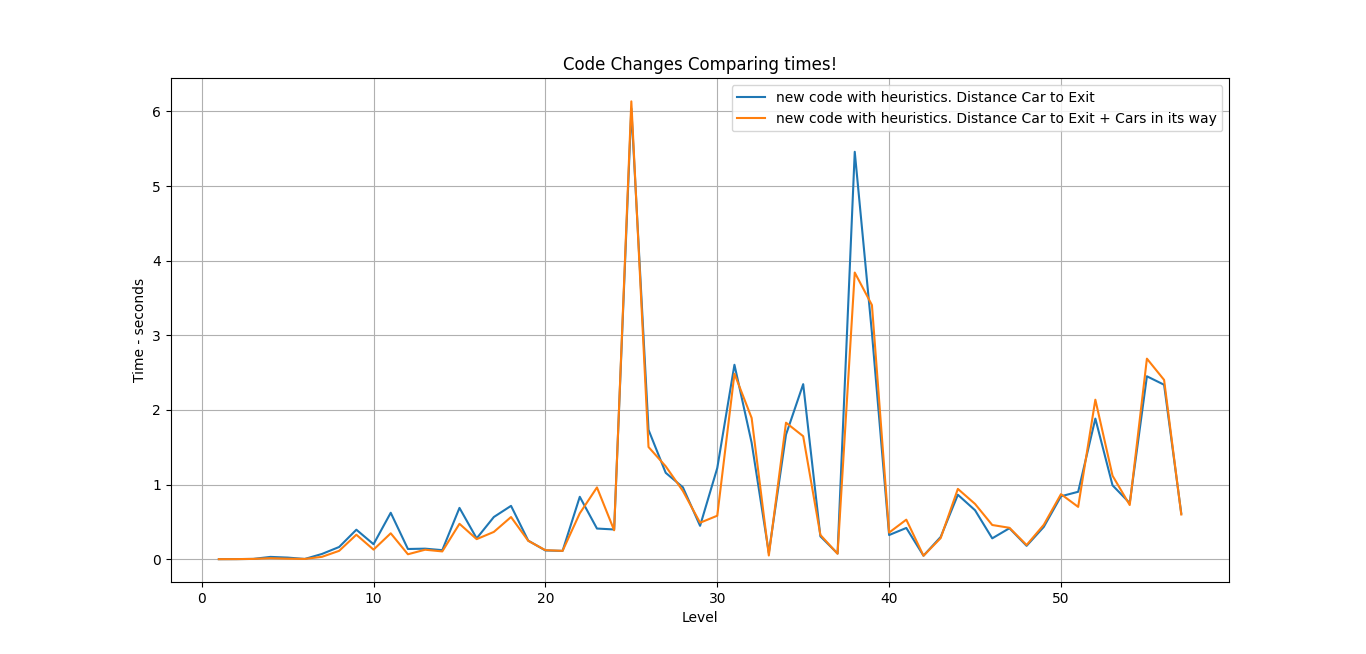
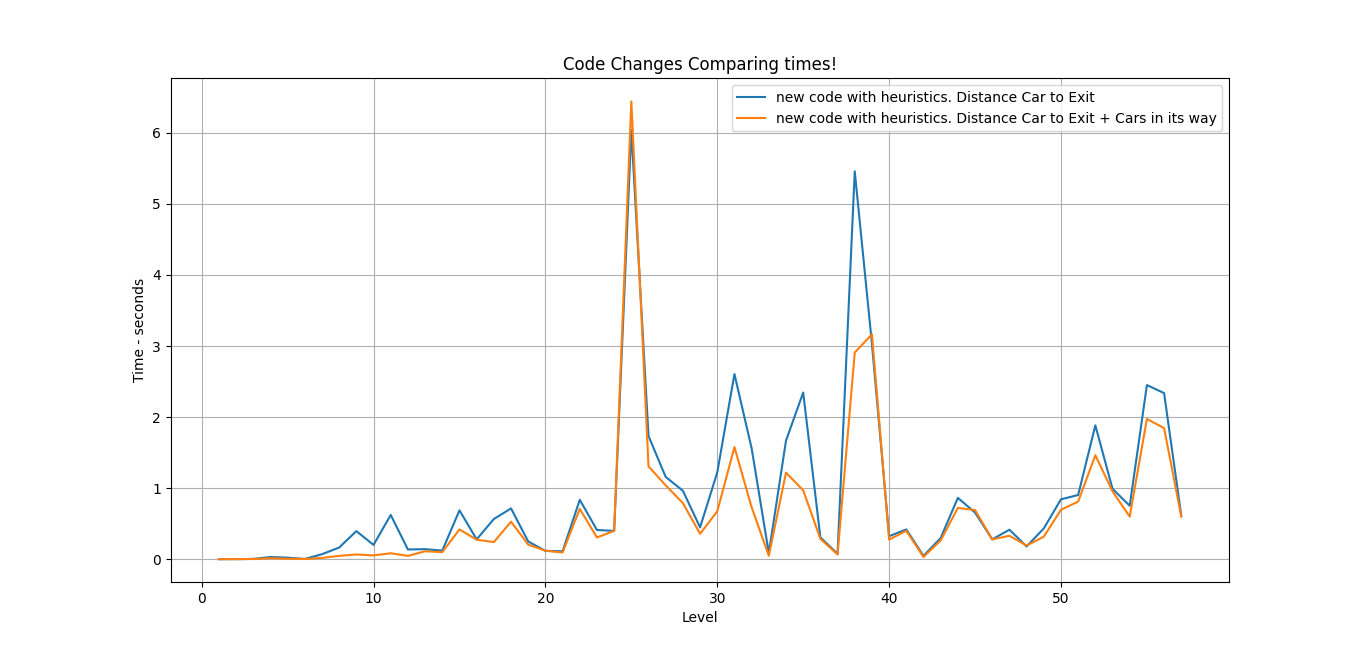
Updates

diff --git a/commonMethods.py b/commonMethods.py
@@ -240,8 +240,8 @@ def DistanceToExitBlockingCars(grid,_coordinates):
 
     cords = piece_coordinates("A",_coordinates)[1]
 
-    grid_size - cords[0]
-    array = [(x,cords[1]) for x in range(grid_size - cords[0])]
+
+    array = [(x,cords[1]) for x in range(grid_size-1,cords[0],-1)]
     counter = 0
     for i in _coordinates:
         if (i[0],i[1]) in array:
@@ -268,7 +268,7 @@ def possibleMovesAStart(map):
                 grid2 = copy.deepcopy(map[0])
                 move(grid2,car,carCords,(-1,0))
 
-                map2 = (grid2,map[1],map[2] + car + "a",DistanceToExitBlockingCars(grid2,_coordinates))  # Creates a copy of the current Map Tuple and Updates the current Solution
+                map2 = (grid2,map[1],map[2] + car + "a",DistanceToExitBlockingCars(grid2,coordinates(grid2)))  # Creates a copy of the current Map Tuple and Updates the current Solution
 
 
                 
@@ -356,7 +356,7 @@ def AStar(startState):
 
         if test_win(node[0]):
             solution = node
-            print("open nodes ->",len(visitedNodes))
+            #print("open nodes ->",len(visitedNodes))
             return solution[2]
 
 
@@ -393,5 +393,5 @@ if __name__ == "__main__":
             endTime = time.time()
     
     
-        #print("level nº " + str(j) + " time is " + str(endTime - startTime) + " seconds")
+        print("level nº " + str(j) + " time is " + str(endTime - startTime) + " seconds")
         j+=1

diff --git a/report/plottingTimeData.py b/report/plottingTimeData.py
@@ -16,7 +16,7 @@ for line in Lines[3:]:
     y1.append(float(line.split(" ")[5]))
 
 
-#plt.plot(x, y1, label = "old code")
+plt.plot(x, y1, label = "old code")
 
 
 Lines = file2.readlines()
@@ -24,7 +24,7 @@ y2 = []
 for line in Lines[3:]:
     y2.append(float(line.split(" ")[5]))
 
-#plt.plot(x, y2, label = "new code")
+plt.plot(x, y2, label = "new code")
 
 
 
